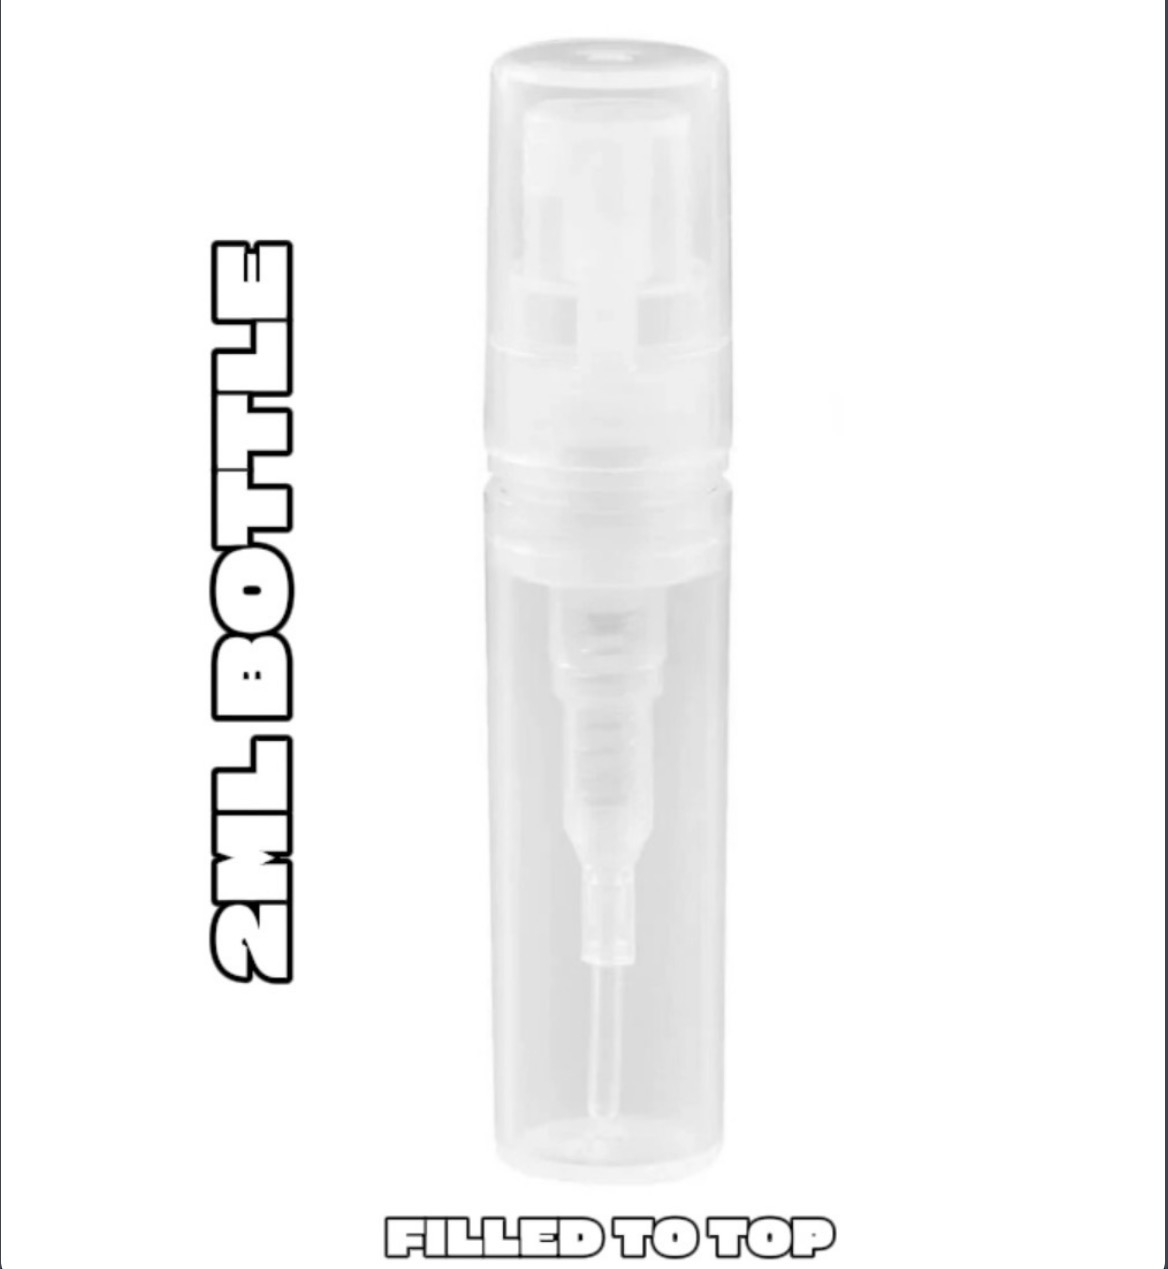
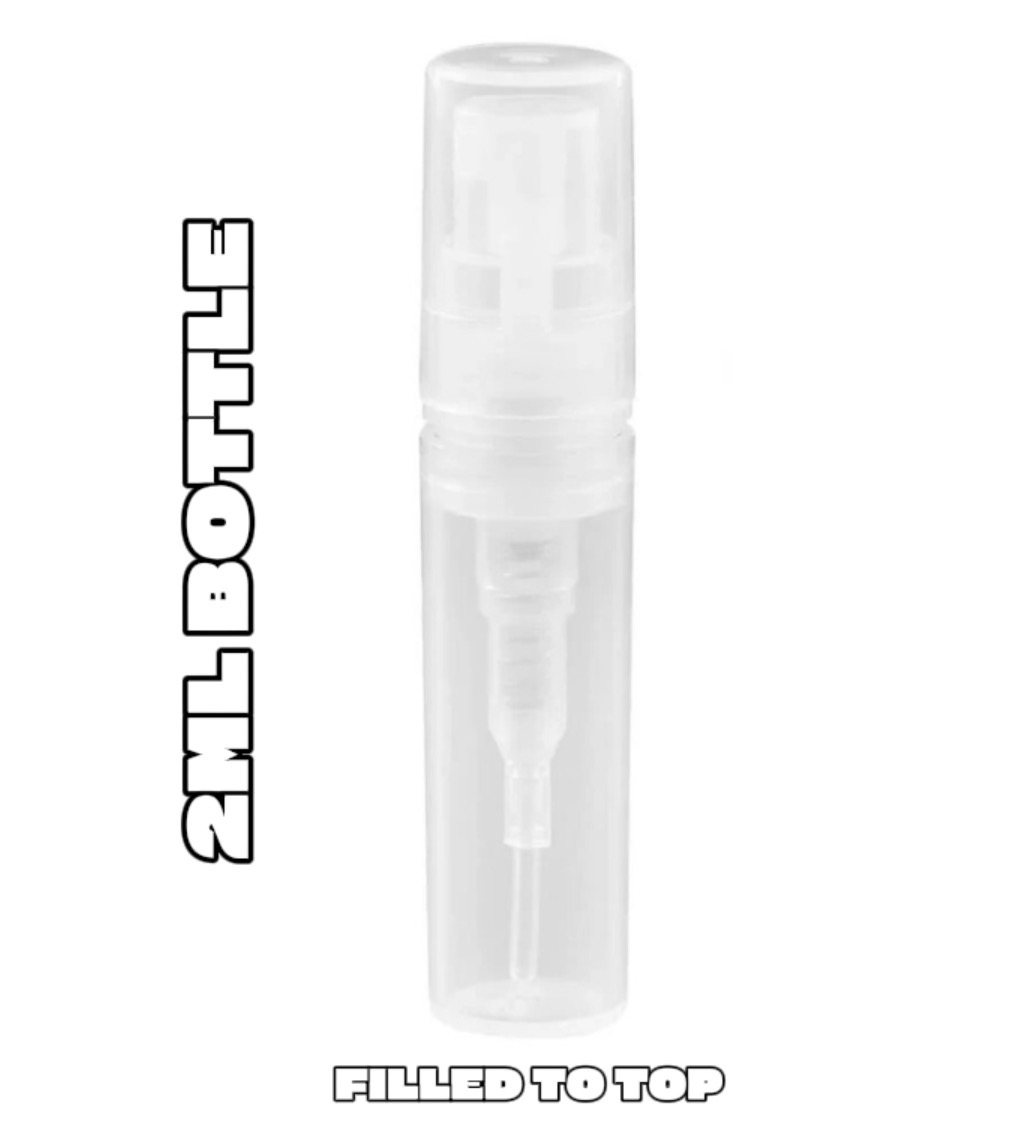
Add files via upload

diff --git a/one-million.html b/one-million.html
@@ -12,9 +12,9 @@
 <p class="price">$4.99 · 2ml sample</p>
 <p class="notes">Blood mandarin, peppermint, cinnamon, rose, leather, amber, and woods.</p>
 <div class="swipe"><div class="slide"><img src="one-million-handheld.jpg" alt="Paco Rabanne 1 Million EDT photo"></div>
-<div class="slide"><img src="one-million-close.jpg" alt="Paco Rabanne 1 Million EDT photo"></div></div>
-<p class="hint">Swipe left/right to see both photos.</p>
-<div class="dots">● ●</div>
+<div class="slide"><img src="one-million-close.jpg" alt="Paco Rabanne 1 Million EDT photo"></div><div class="slide"><img src="sample-bottle.jpg" alt="2ml sample bottle photo"></div></div>
+<p class="hint">Swipe left/right to see all photos.</p>
+<div class="dots">● ● ●</div>
 
 <div class="info">
 <p><strong>USA only.</strong> No refunds. Text support: 916-749-8121.</p>

diff --git a/pacific-rock-moss.html b/pacific-rock-moss.html
@@ -12,9 +12,9 @@
 <p class="price">$7.49 · 2ml sample</p>
 <p class="notes">Lemon, aquatic notes, sage, geranium, cedarwood, and fresh mossy woods.</p>
 <div class="swipe"><div class="slide"><img src="pacific-rock-moss-handheld.jpg" alt="Pacific Rock Moss photo"></div>
-<div class="slide"><img src="pacific-rock-moss-close.jpg" alt="Pacific Rock Moss photo"></div></div>
-<p class="hint">Swipe left/right to see both photos.</p>
-<div class="dots">● ●</div>
+<div class="slide"><img src="pacific-rock-moss-close.jpg" alt="Pacific Rock Moss photo"></div><div class="slide"><img src="sample-bottle.jpg" alt="2ml sample bottle photo"></div></div>
+<p class="hint">Swipe left/right to see all photos.</p>
+<div class="dots">● ● ●</div>
 
 <div class="info">
 <p><strong>USA only.</strong> No refunds. Text support: 916-749-8121.</p>

diff --git a/prada-ocean.html b/prada-ocean.html
@@ -12,9 +12,9 @@
 <p class="price">$5.99 · 2ml sample</p>
 <p class="notes">Bergamot, pink pepper, lavender, iris, sage, vetiver, and musk.</p>
 <div class="swipe"><div class="slide"><img src="prada-ocean-handheld.jpg" alt="Prada Luna Rossa Ocean photo"></div>
-<div class="slide"><img src="prada-ocean-close.jpg" alt="Prada Luna Rossa Ocean photo"></div></div>
-<p class="hint">Swipe left/right to see both photos.</p>
-<div class="dots">● ●</div>
+<div class="slide"><img src="prada-ocean-close.jpg" alt="Prada Luna Rossa Ocean photo"></div><div class="slide"><img src="sample-bottle.jpg" alt="2ml sample bottle photo"></div></div>
+<p class="hint">Swipe left/right to see all photos.</p>
+<div class="dots">● ● ●</div>
 
 <div class="info">
 <p><strong>USA only.</strong> No refunds. Text support: 916-749-8121.</p>

diff --git a/ysl-myself.html b/ysl-myself.html
@@ -12,9 +12,9 @@
 <p class="price">$6.99 · 2ml sample</p>
 <p class="notes">Bergamot, orange blossom, patchouli, ambroxan, and soft woods.</p>
 <div class="swipe"><div class="slide"><img src="ysl-myself-handheld.jpg" alt="YSL MYSLF EDP photo"></div>
-<div class="slide"><img src="ysl-myslf.jpg" alt="YSL MYSLF EDP photo"></div></div>
-<p class="hint">Swipe left/right to see both photos.</p>
-<div class="dots">● ●</div>
+<div class="slide"><img src="ysl-myslf.jpg" alt="YSL MYSLF EDP photo"></div><div class="slide"><img src="sample-bottle.jpg" alt="2ml sample bottle photo"></div></div>
+<p class="hint">Swipe left/right to see all photos.</p>
+<div class="dots">● ● ●</div>
 
 <div class="info">
 <p><strong>USA only.</strong> No refunds. Text support: 916-749-8121.</p>